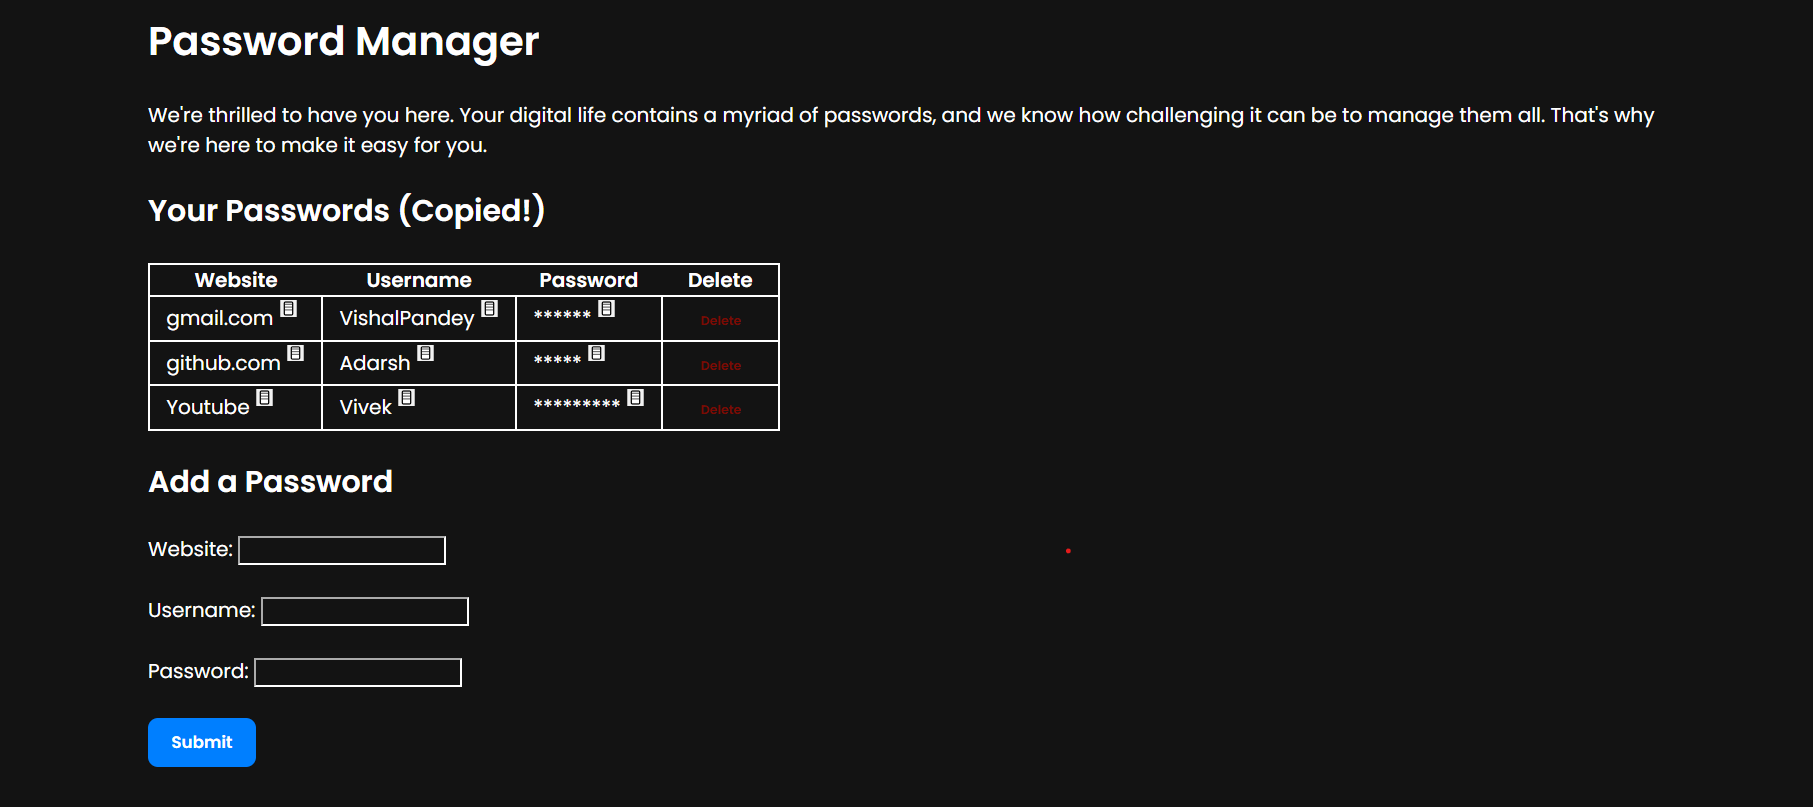
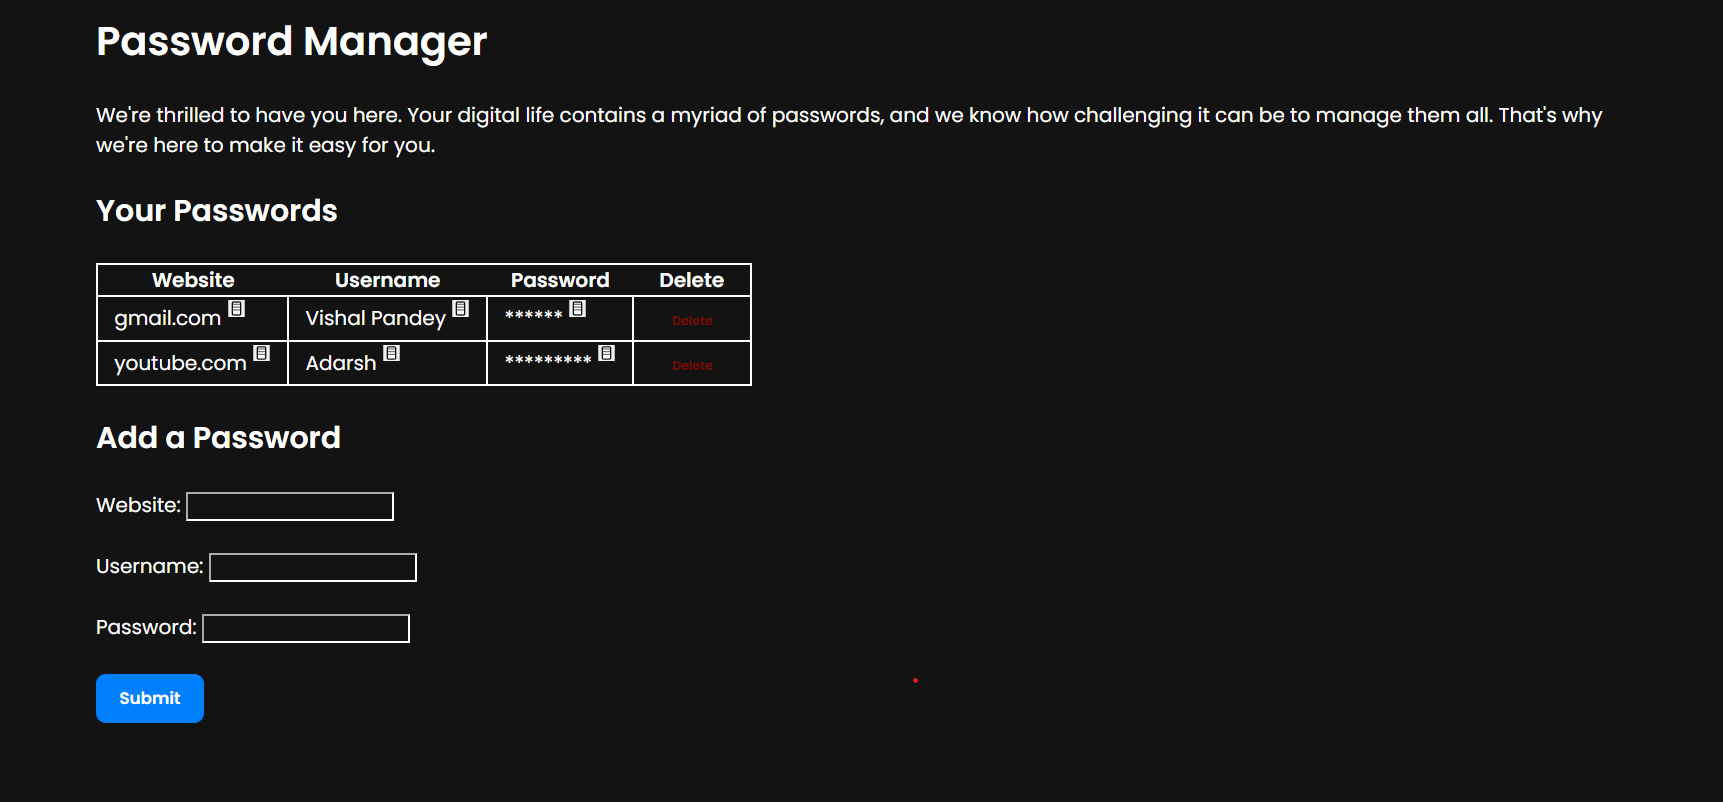
final commit

diff --git a/index.html b/index.html
@@ -15,7 +15,7 @@
         <h1>Password Manager</h1>
         <p>We're thrilled to have you here. Your digital life contains a myriad of passwords, and we know how
             challenging it can be to manage them all. That's why we're here to make it easy for you.</p>
-        <h2>Your Passwords <span id="alert">(Copied!)</span></h2> 
+        <h2>Your Passwords</h2> 
         <table>
             <tr>
                 <th>Website</th>
